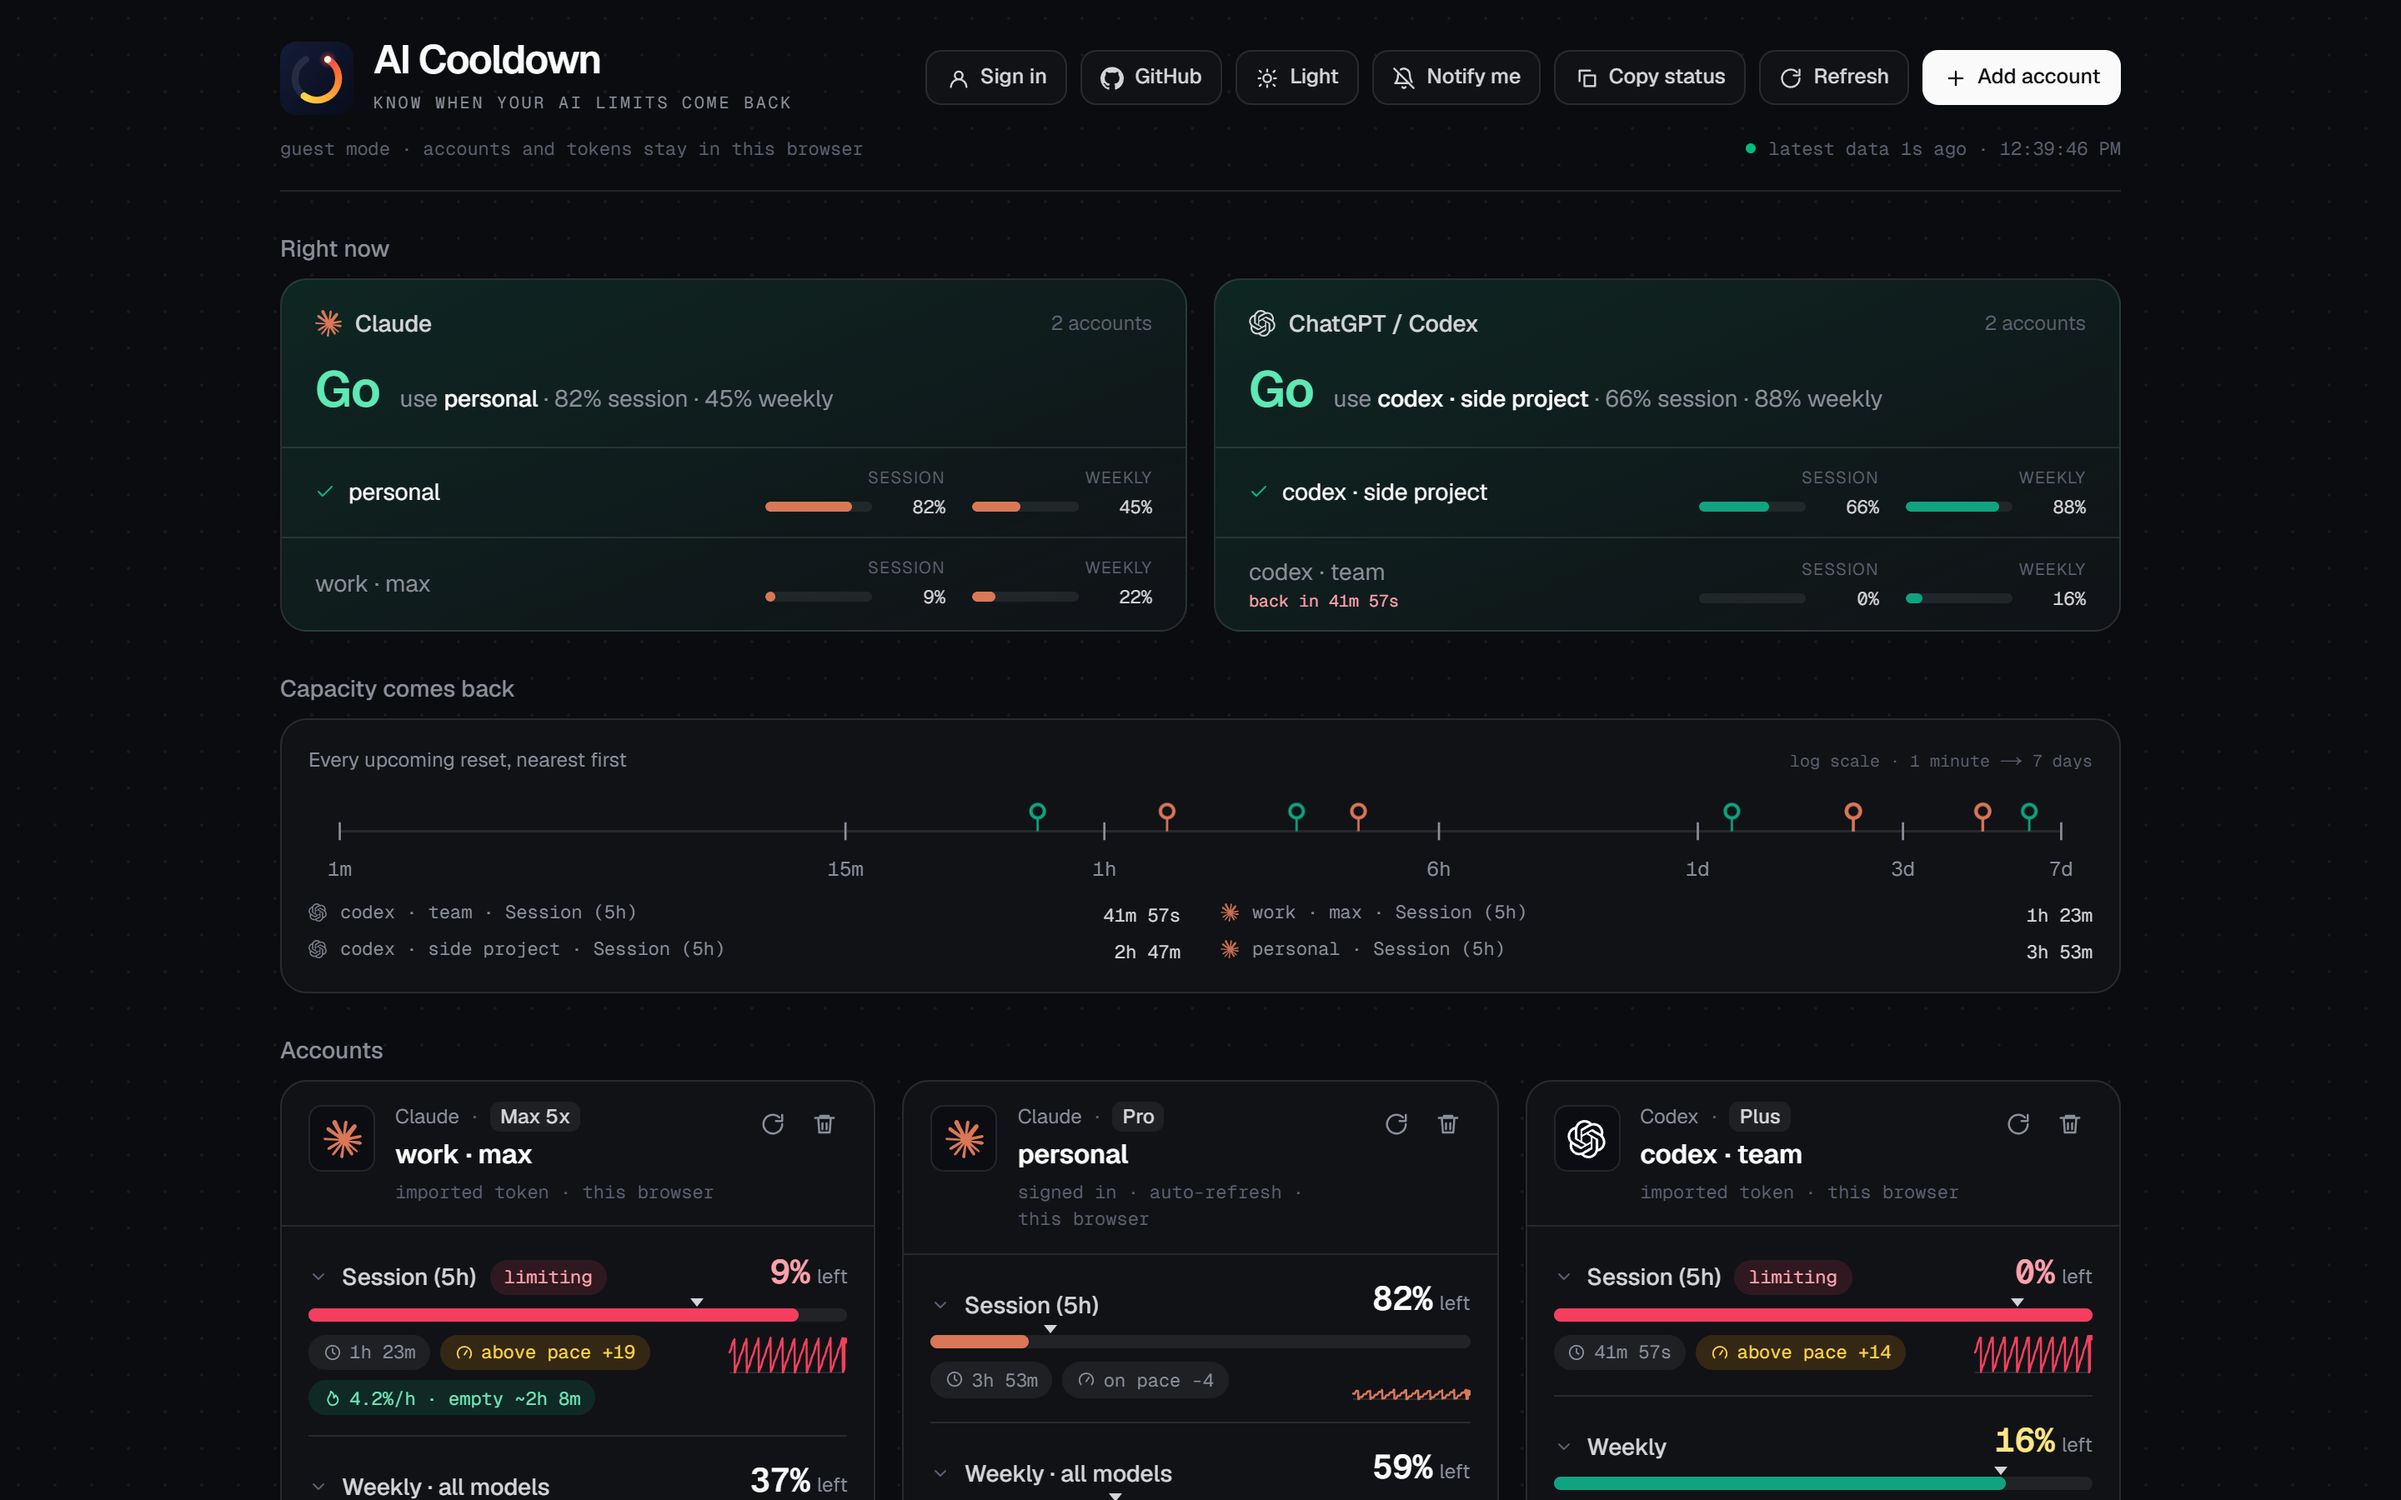
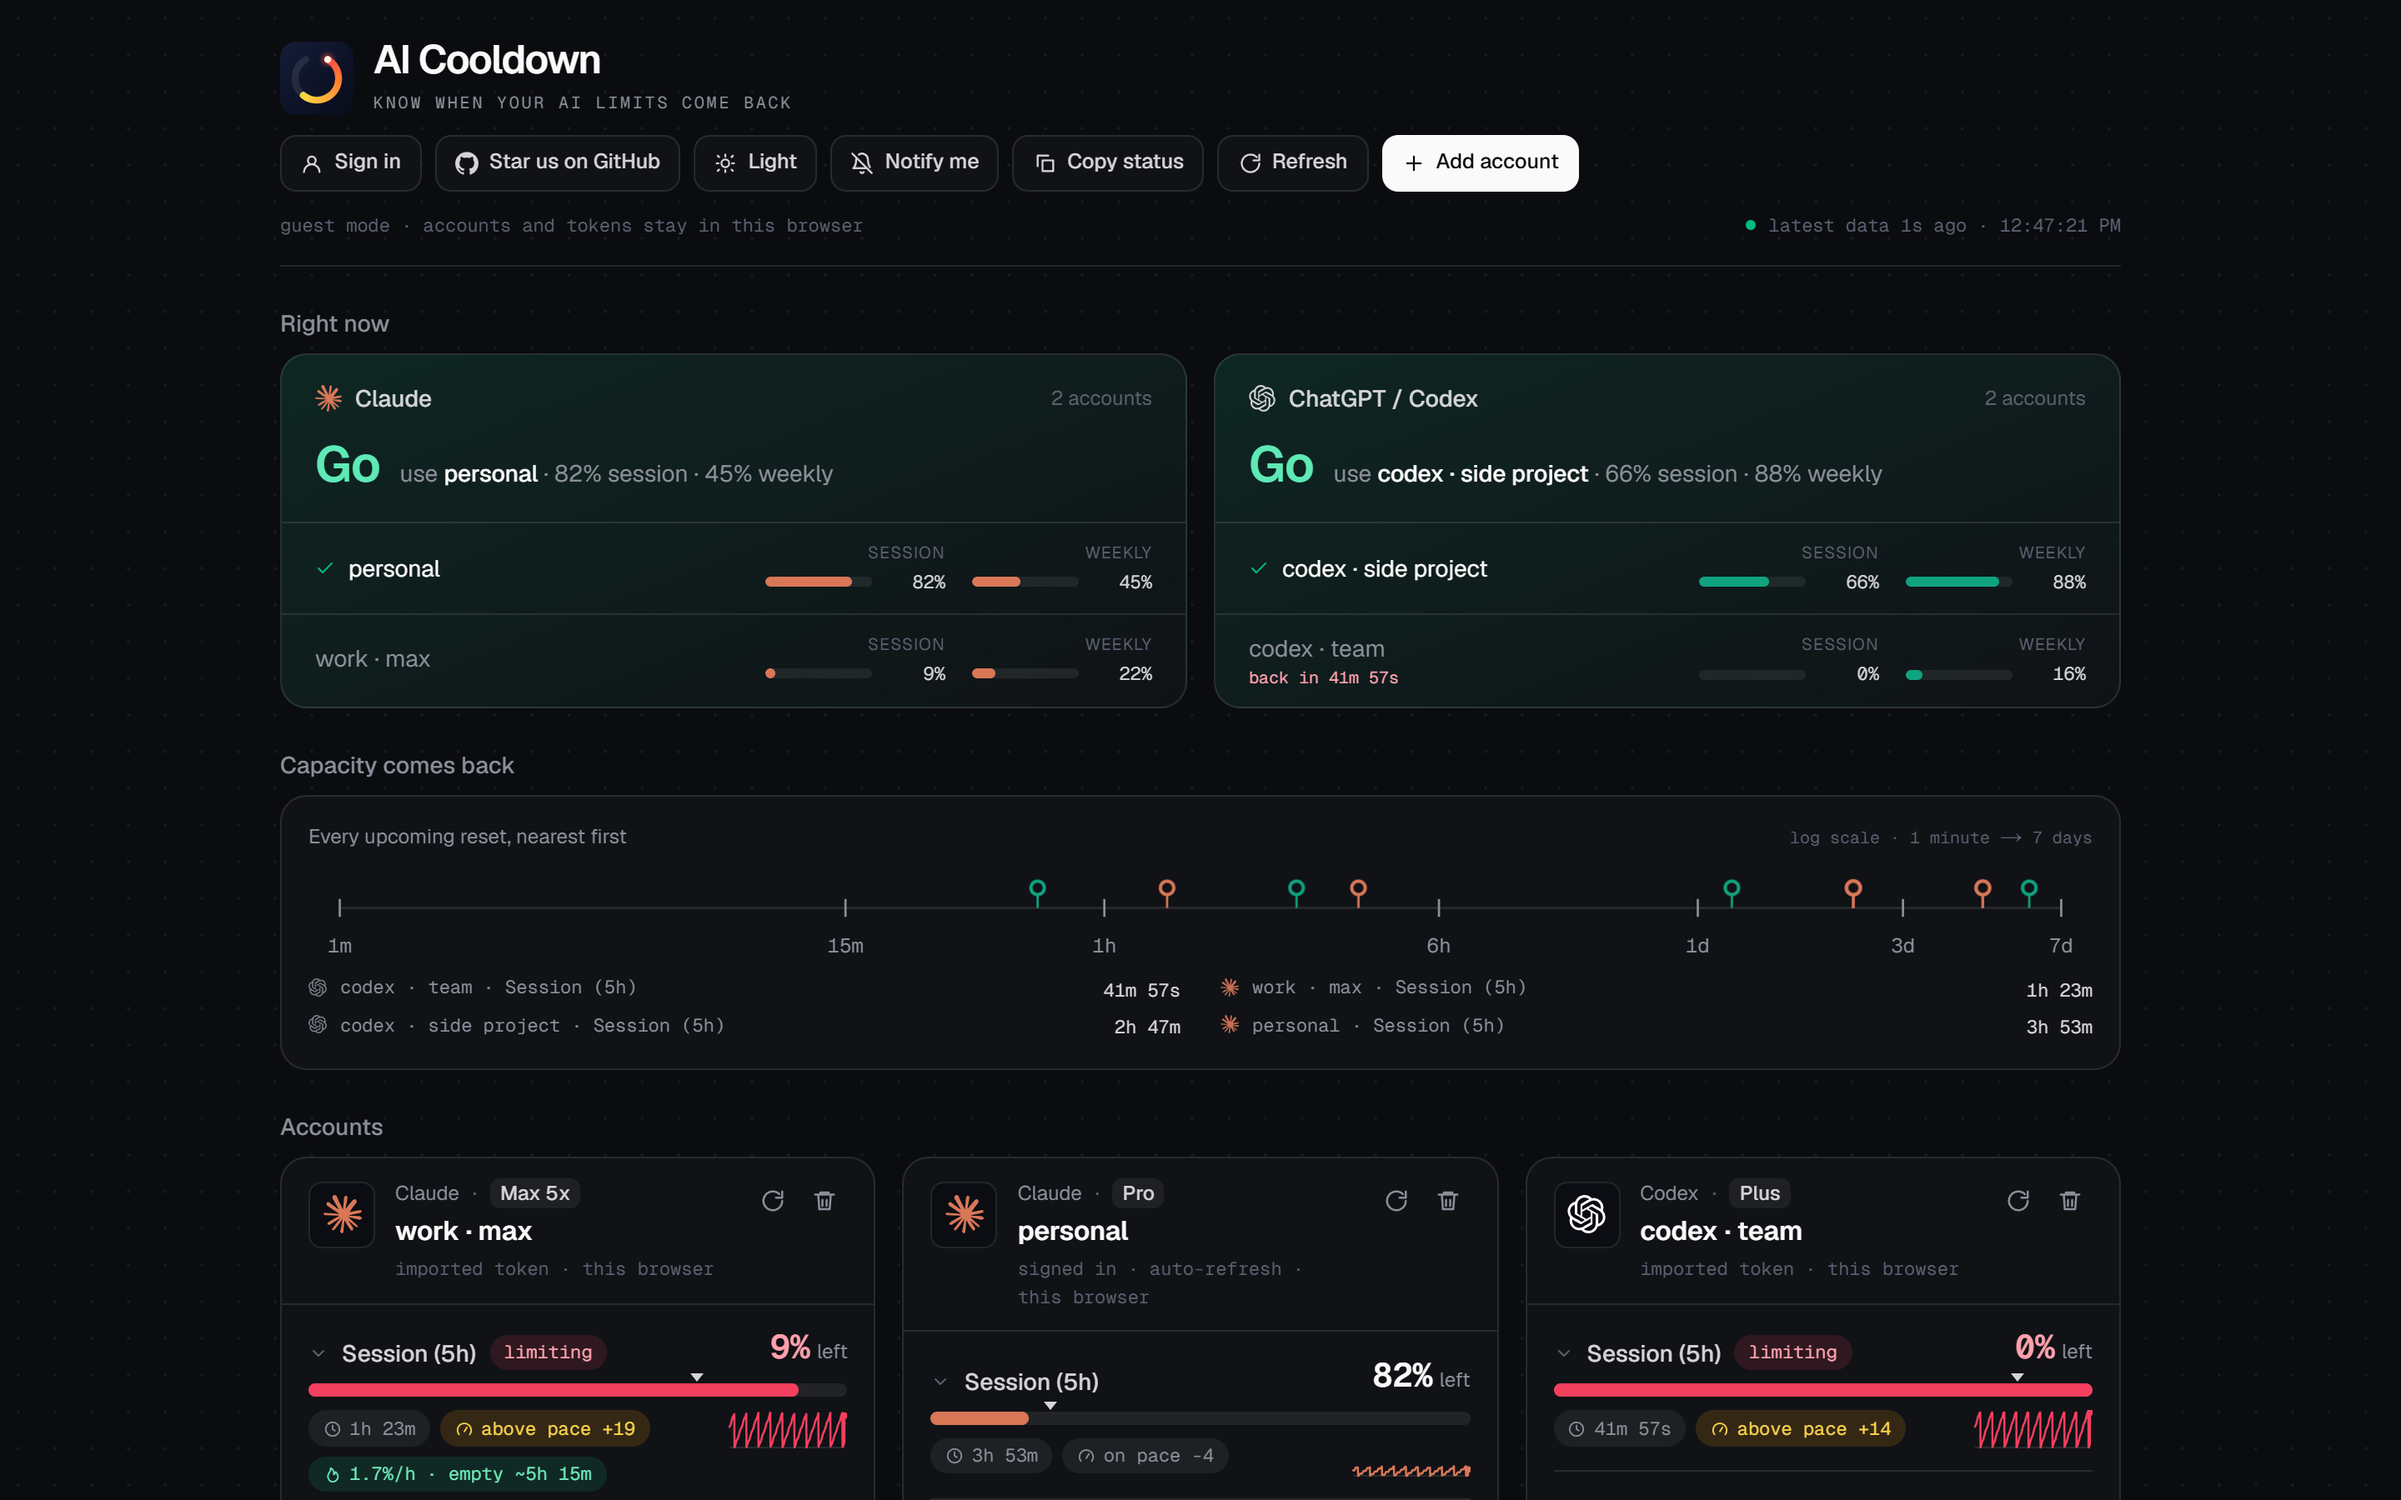
Header: ask for a star instead of a plain GitHub link

diff --git a/src/components/Dashboard.tsx b/src/components/Dashboard.tsx
@@ -330,9 +330,9 @@ export function Dashboard() {
                 Sign in
               </button>
             )}
-            <a href={SITE.repo} target="_blank" rel="noopener noreferrer" title="Source code on GitHub" className={btn}>
+            <a href={SITE.repo} target="_blank" rel="noopener noreferrer" title="Open source · star the repo on GitHub" className={btn}>
               <GitHubGlyph />
-              GitHub
+              Star us on GitHub
             </a>
             <ThemeToggle className={btn} />
             <button type="button" onClick={() => void toggleNotify()} disabled={accounts.length === 0} aria-pressed={notify} title="Browser notification when a limit resets, crosses 90% or runs out" className={`${btn} ${notify ? "btn-accent" : ""}`}>
